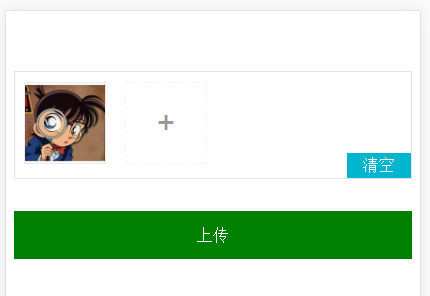
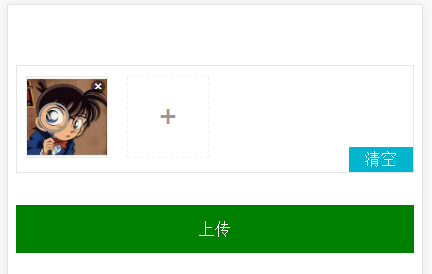
modify

diff --git a/README.md b/README.md
@@ -5,7 +5,22 @@
   <a href="https://www.npmjs.com/package/vue-easy-uploader"><img src="https://img.shields.io/npm/l/vue.svg" alt="License"></a>
 </p>
 
-> 一个基于Vue的多文件上传插件，目前支持常见图片的上传，后续版本会加入其他文件的支持。
+> 一个基于Vue的移动端多文件上传插件，支持常见图片的上传。
+
+![](https://raw.githubusercontent.com/quanzaiyu/vue-easy-uploader/master/static/05.png)
+
+![](https://raw.githubusercontent.com/quanzaiyu/vue-easy-uploader/master/static/06.png)
+
+
+
+### 特性
+
+- 多文件上传
+- 上传图片预览
+- 上传状态监测
+- 删除指定图片
+- 清空图片
+- 重新上传
 
 
 

diff --git a/src/uploader/README.md b/src/uploader/README.md
@@ -5,7 +5,22 @@
   <a href="https://www.npmjs.com/package/vue-easy-uploader"><img src="https://img.shields.io/npm/l/vue.svg" alt="License"></a>
 </p>
 
-> 一个基于Vue的多文件上传插件，目前支持常见图片的上传，后续版本会加入其他文件的支持。
+> 一个基于Vue的移动端多文件上传插件，支持常见图片的上传。
+
+![](https://raw.githubusercontent.com/quanzaiyu/vue-easy-uploader/master/static/05.png)
+
+![](https://raw.githubusercontent.com/quanzaiyu/vue-easy-uploader/master/static/06.png)
+
+
+
+### 特性
+
+- 多文件上传
+- 上传图片预览
+- 上传状态监测
+- 删除指定图片
+- 清空图片
+- 重新上传
 
 
 
